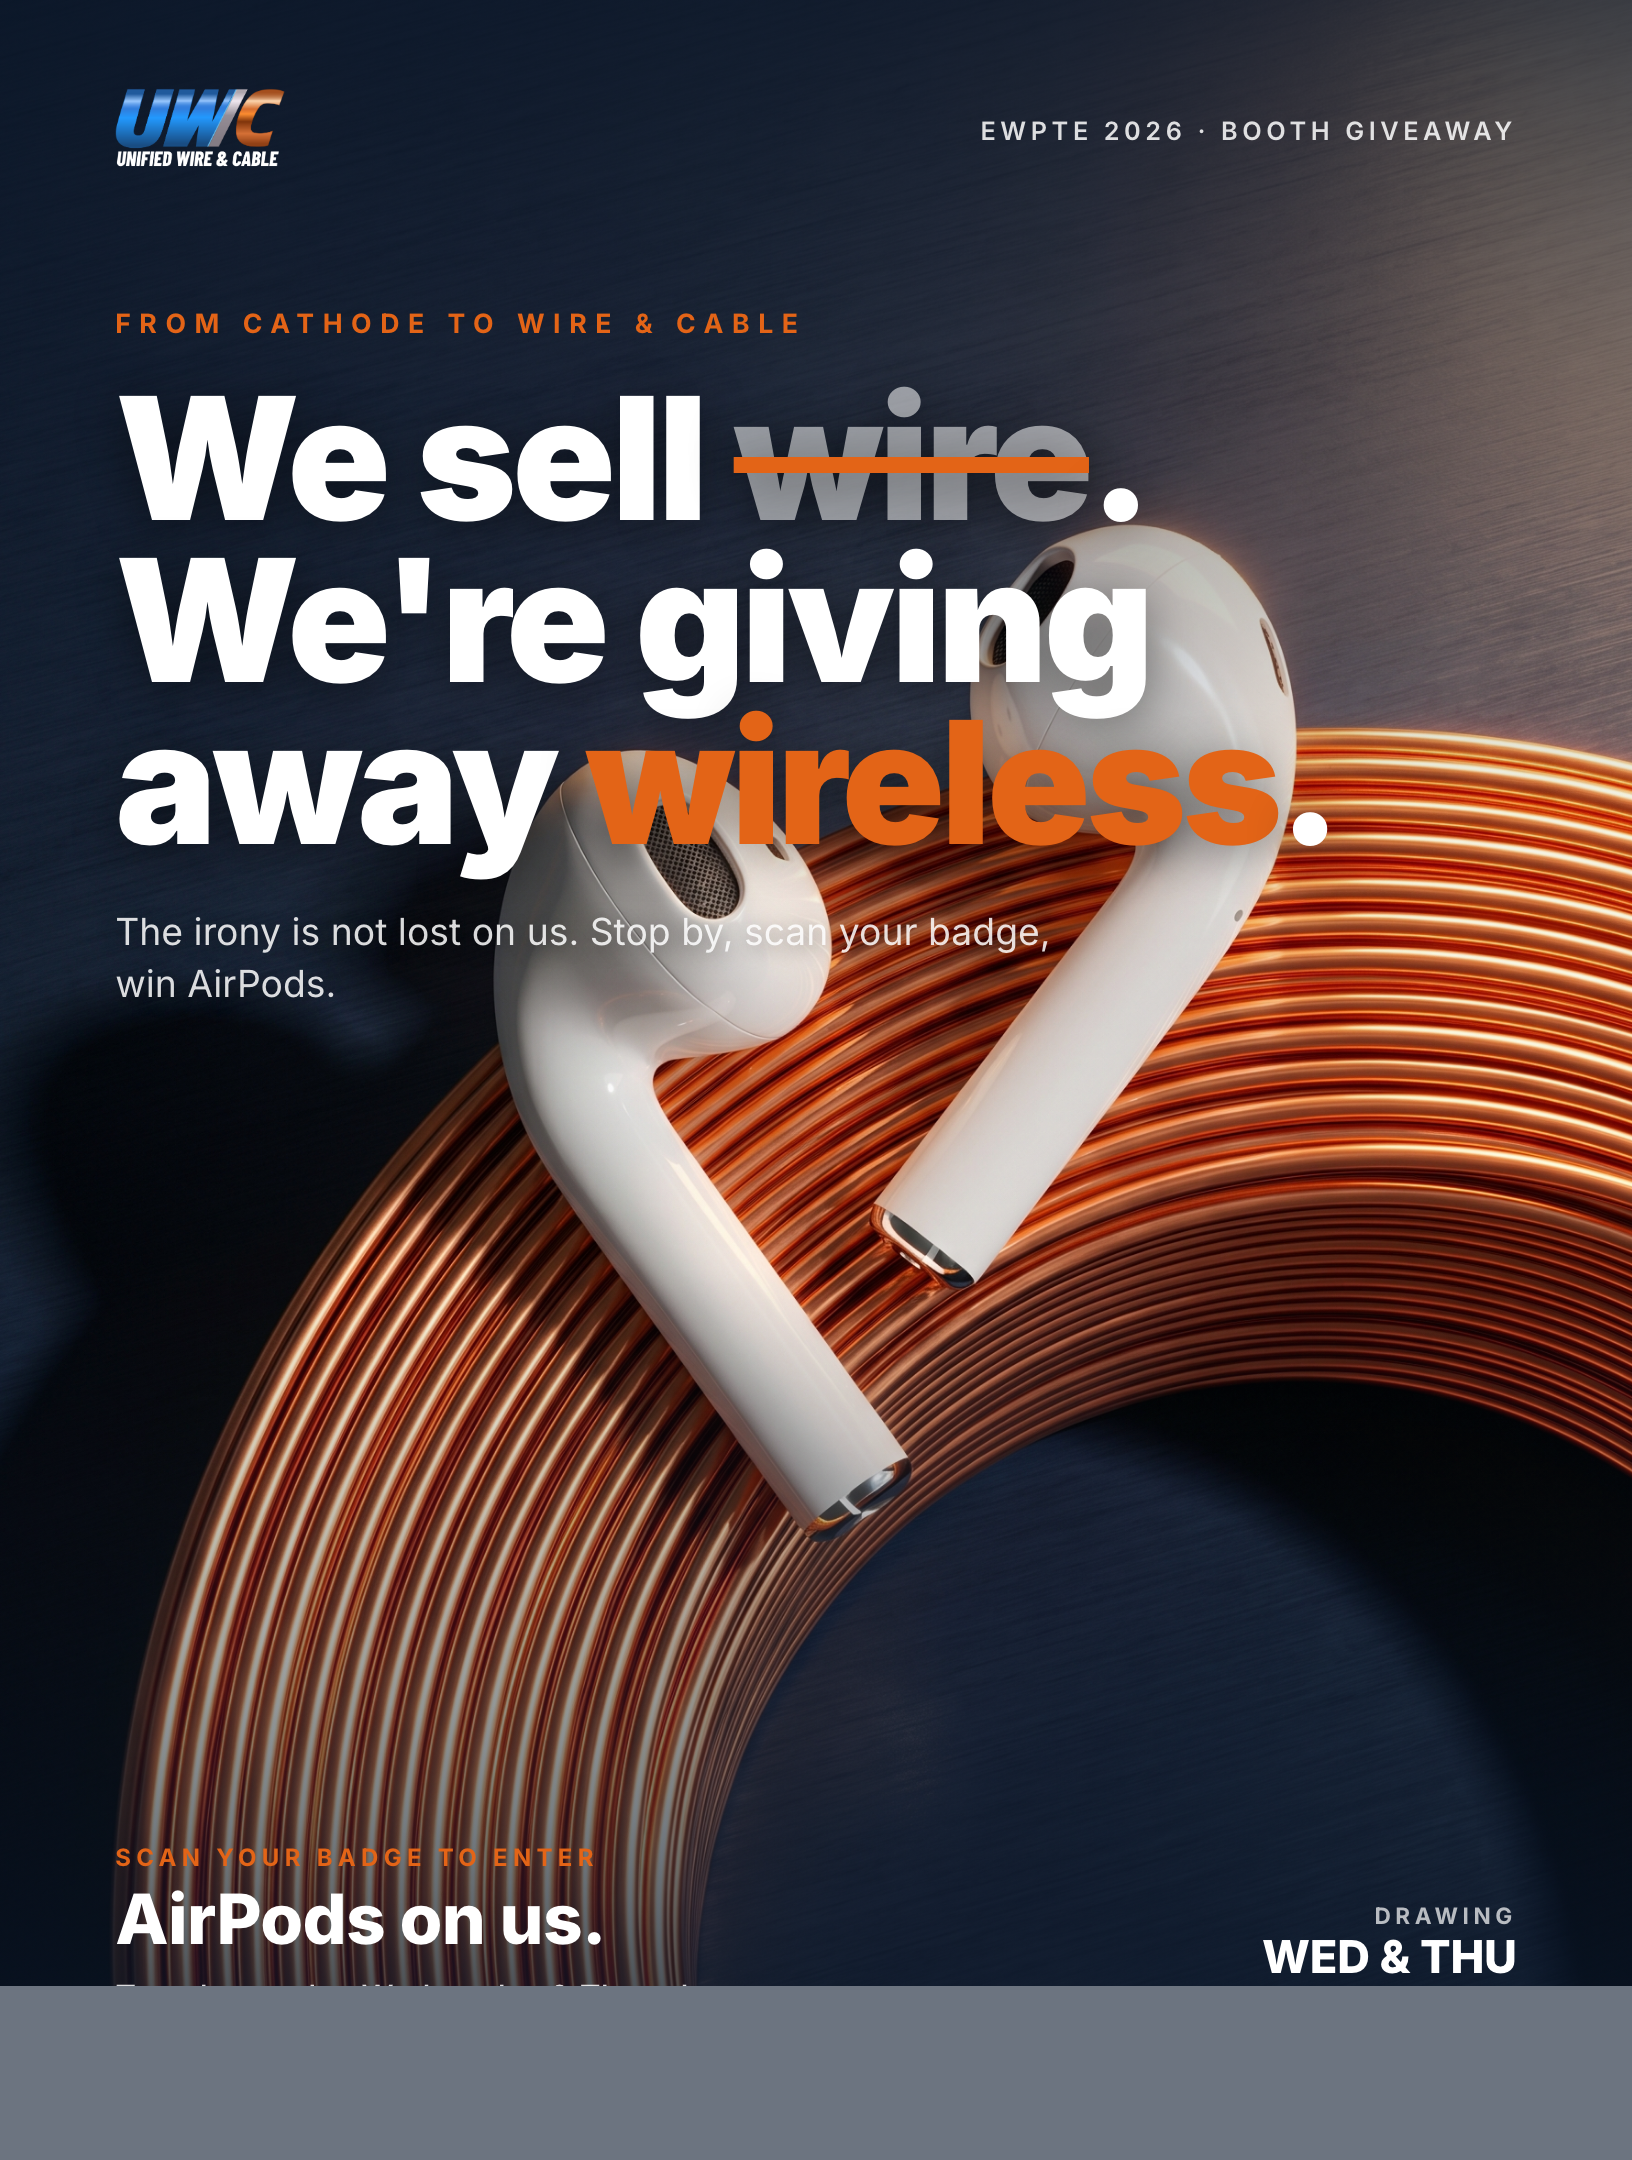
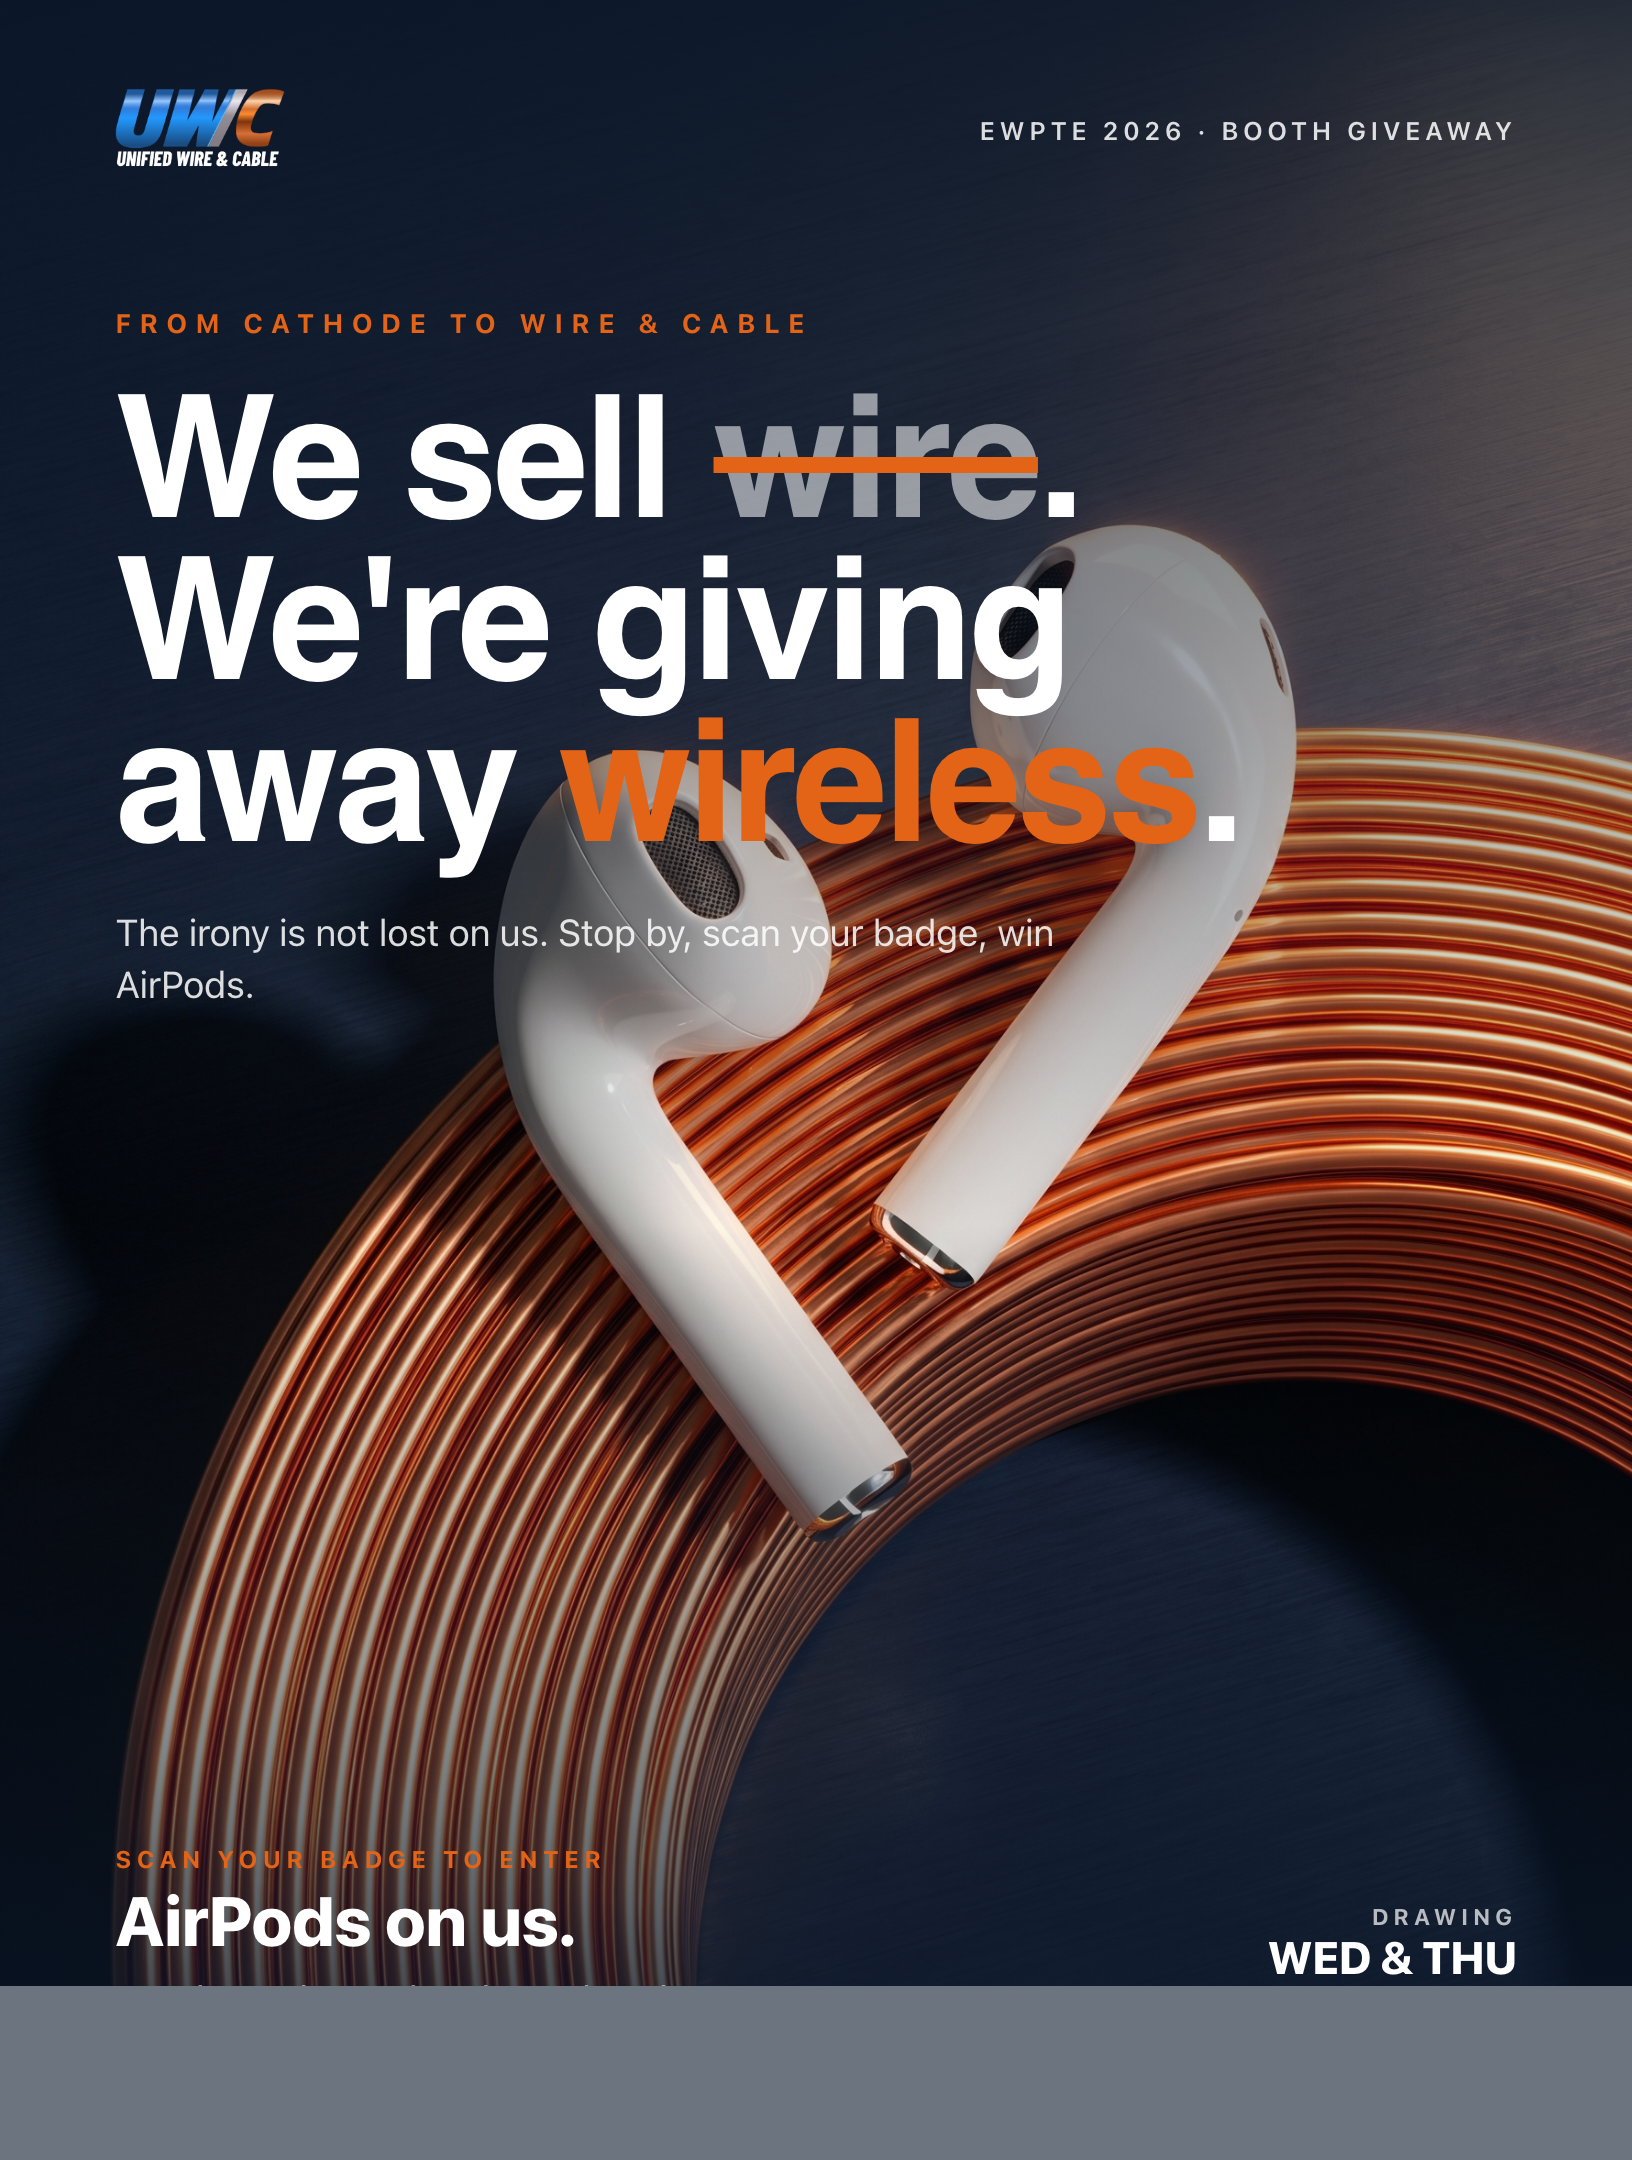
Concept A: drop heavy text-shadow blur (PDF rasterization artifact)
Chrome's --print-to-pdf renderer was baking the 24px-blur text-shadows
on the A1/A2 headlines as opaque rectangular bitmap tiles instead of
soft halos — visible as dark boxes behind the text. Removed the
shadows and instead deepened the gradient overlay in the headline
band so the white type still has clean contrast against the navy +
copper background. D's heavy shadows render fine because its sepia
image is uniformly dark, so left those alone.

diff --git a/airpod-giveaway/index.html b/airpod-giveaway/index.html
@@ -202,7 +202,7 @@
           <div class="version-tag"><span class="tool">Nano Banana</span>v1</div>
           <div class="version-actions">
             <a class="btn btn-html" href="concept-a1-nano.html">View</a>
-            <a class="btn btn-pdf" href="pdfs/UWC-Airpods-A1-Nano-20260504-0909.pdf">PDF</a>
+            <a class="btn btn-pdf" href="pdfs/UWC-Airpods-A1-Nano-20260504-1002.pdf">PDF</a>
           </div>
         </div>
       </div>
@@ -212,7 +212,7 @@
           <div class="version-tag"><span class="tool">OpenAI</span>v2</div>
           <div class="version-actions">
             <a class="btn btn-html" href="concept-a2-openai.html">View</a>
-            <a class="btn btn-pdf" href="pdfs/UWC-Airpods-A2-OpenAI-20260504-0909.pdf">PDF</a>
+            <a class="btn btn-pdf" href="pdfs/UWC-Airpods-A2-OpenAI-20260504-1002.pdf">PDF</a>
           </div>
         </div>
       </div>
@@ -235,7 +235,7 @@
           <div class="version-tag"><span class="tool">Nano Banana</span>v1</div>
           <div class="version-actions">
             <a class="btn btn-html" href="concept-b1-nano.html">View</a>
-            <a class="btn btn-pdf" href="pdfs/UWC-Airpods-B1-Nano-20260504-0909.pdf">PDF</a>
+            <a class="btn btn-pdf" href="pdfs/UWC-Airpods-B1-Nano-20260504-1002.pdf">PDF</a>
           </div>
         </div>
       </div>
@@ -245,7 +245,7 @@
           <div class="version-tag"><span class="tool">OpenAI</span>v2</div>
           <div class="version-actions">
             <a class="btn btn-html" href="concept-b2-openai.html">View</a>
-            <a class="btn btn-pdf" href="pdfs/UWC-Airpods-B2-OpenAI-20260504-0909.pdf">PDF</a>
+            <a class="btn btn-pdf" href="pdfs/UWC-Airpods-B2-OpenAI-20260504-1002.pdf">PDF</a>
           </div>
         </div>
       </div>
@@ -268,7 +268,7 @@
           <div class="version-tag"><span class="tool">Nano Banana</span>v1</div>
           <div class="version-actions">
             <a class="btn btn-html" href="concept-c1-nano.html">View</a>
-            <a class="btn btn-pdf" href="pdfs/UWC-Airpods-C1-Nano-20260504-0909.pdf">PDF</a>
+            <a class="btn btn-pdf" href="pdfs/UWC-Airpods-C1-Nano-20260504-1002.pdf">PDF</a>
           </div>
         </div>
       </div>
@@ -278,7 +278,7 @@
           <div class="version-tag"><span class="tool">OpenAI</span>v2</div>
           <div class="version-actions">
             <a class="btn btn-html" href="concept-c2-openai.html">View</a>
-            <a class="btn btn-pdf" href="pdfs/UWC-Airpods-C2-OpenAI-20260504-0909.pdf">PDF</a>
+            <a class="btn btn-pdf" href="pdfs/UWC-Airpods-C2-OpenAI-20260504-1002.pdf">PDF</a>
           </div>
         </div>
       </div>
@@ -301,7 +301,7 @@
           <div class="version-tag"><span class="tool">Nano Banana</span>v1</div>
           <div class="version-actions">
             <a class="btn btn-html" href="concept-d1-nano.html">View</a>
-            <a class="btn btn-pdf" href="pdfs/UWC-Airpods-D1-Nano-20260504-0909.pdf">PDF</a>
+            <a class="btn btn-pdf" href="pdfs/UWC-Airpods-D1-Nano-20260504-1002.pdf">PDF</a>
           </div>
         </div>
       </div>
@@ -311,7 +311,7 @@
           <div class="version-tag"><span class="tool">OpenAI</span>v2</div>
           <div class="version-actions">
             <a class="btn btn-html" href="concept-d2-openai.html">View</a>
-            <a class="btn btn-pdf" href="pdfs/UWC-Airpods-D2-OpenAI-20260504-0909.pdf">PDF</a>
+            <a class="btn btn-pdf" href="pdfs/UWC-Airpods-D2-OpenAI-20260504-1002.pdf">PDF</a>
           </div>
         </div>
       </div>
@@ -334,7 +334,7 @@
           <div class="version-tag"><span class="tool">Nano Banana</span>v1</div>
           <div class="version-actions">
             <a class="btn btn-html" href="concept-e1-nano.html">View</a>
-            <a class="btn btn-pdf" href="pdfs/UWC-Airpods-E1-Nano-20260504-0909.pdf">PDF</a>
+            <a class="btn btn-pdf" href="pdfs/UWC-Airpods-E1-Nano-20260504-1002.pdf">PDF</a>
           </div>
         </div>
       </div>
@@ -344,7 +344,7 @@
           <div class="version-tag"><span class="tool">OpenAI</span>v2</div>
           <div class="version-actions">
             <a class="btn btn-html" href="concept-e2-openai.html">View</a>
-            <a class="btn btn-pdf" href="pdfs/UWC-Airpods-E2-OpenAI-20260504-0909.pdf">PDF</a>
+            <a class="btn btn-pdf" href="pdfs/UWC-Airpods-E2-OpenAI-20260504-1002.pdf">PDF</a>
           </div>
         </div>
       </div>

diff --git a/airpod-giveaway/concept-a1-nano.html b/airpod-giveaway/concept-a1-nano.html
@@ -20,7 +20,7 @@
     position: absolute;
     inset: 0;
     background:
-      linear-gradient(180deg, rgba(10,22,40,.78) 0%, rgba(10,22,40,.05) 38%, rgba(10,22,40,0) 60%, rgba(10,22,40,.85) 100%);
+      linear-gradient(180deg, rgba(10,22,40,.88) 0%, rgba(10,22,40,.55) 22%, rgba(10,22,40,.25) 42%, rgba(10,22,40,0) 58%, rgba(10,22,40,.88) 100%);
     z-index: 1;
   }
   .a-headline-block {
@@ -46,7 +46,6 @@
     line-height: 0.95;
     letter-spacing: -0.025em;
     color: #fff;
-    text-shadow: 0 4px 24px rgba(0,0,0,.45);
   }
   .a-headline .swap {
     color: var(--orange);
@@ -64,7 +63,6 @@
     margin-top: 16pt;
     max-width: 5in;
     line-height: 1.4;
-    text-shadow: 0 2px 10px rgba(0,0,0,.4);
   }
 </style>
 </head>

diff --git a/airpod-giveaway/concept-a2-openai.html b/airpod-giveaway/concept-a2-openai.html
@@ -18,7 +18,7 @@
     position: absolute;
     inset: 0;
     background:
-      linear-gradient(180deg, rgba(10,22,40,.82) 0%, rgba(10,22,40,.25) 30%, rgba(10,22,40,.0) 50%, rgba(10,22,40,.92) 100%);
+      linear-gradient(180deg, rgba(10,22,40,.92) 0%, rgba(10,22,40,.65) 22%, rgba(10,22,40,.35) 42%, rgba(10,22,40,.0) 56%, rgba(10,22,40,.92) 100%);
     z-index: 1;
   }
   .a-headline-block {
@@ -43,7 +43,6 @@
     line-height: 0.96;
     letter-spacing: -0.025em;
     color: #fff;
-    text-shadow: 0 4px 24px rgba(0,0,0,.55);
   }
   .a-headline .swap { color: var(--orange); }
   .a-headline .strike {
@@ -59,7 +58,6 @@
     margin-top: 14pt;
     max-width: 5in;
     line-height: 1.4;
-    text-shadow: 0 2px 10px rgba(0,0,0,.5);
   }
 </style>
 </head>